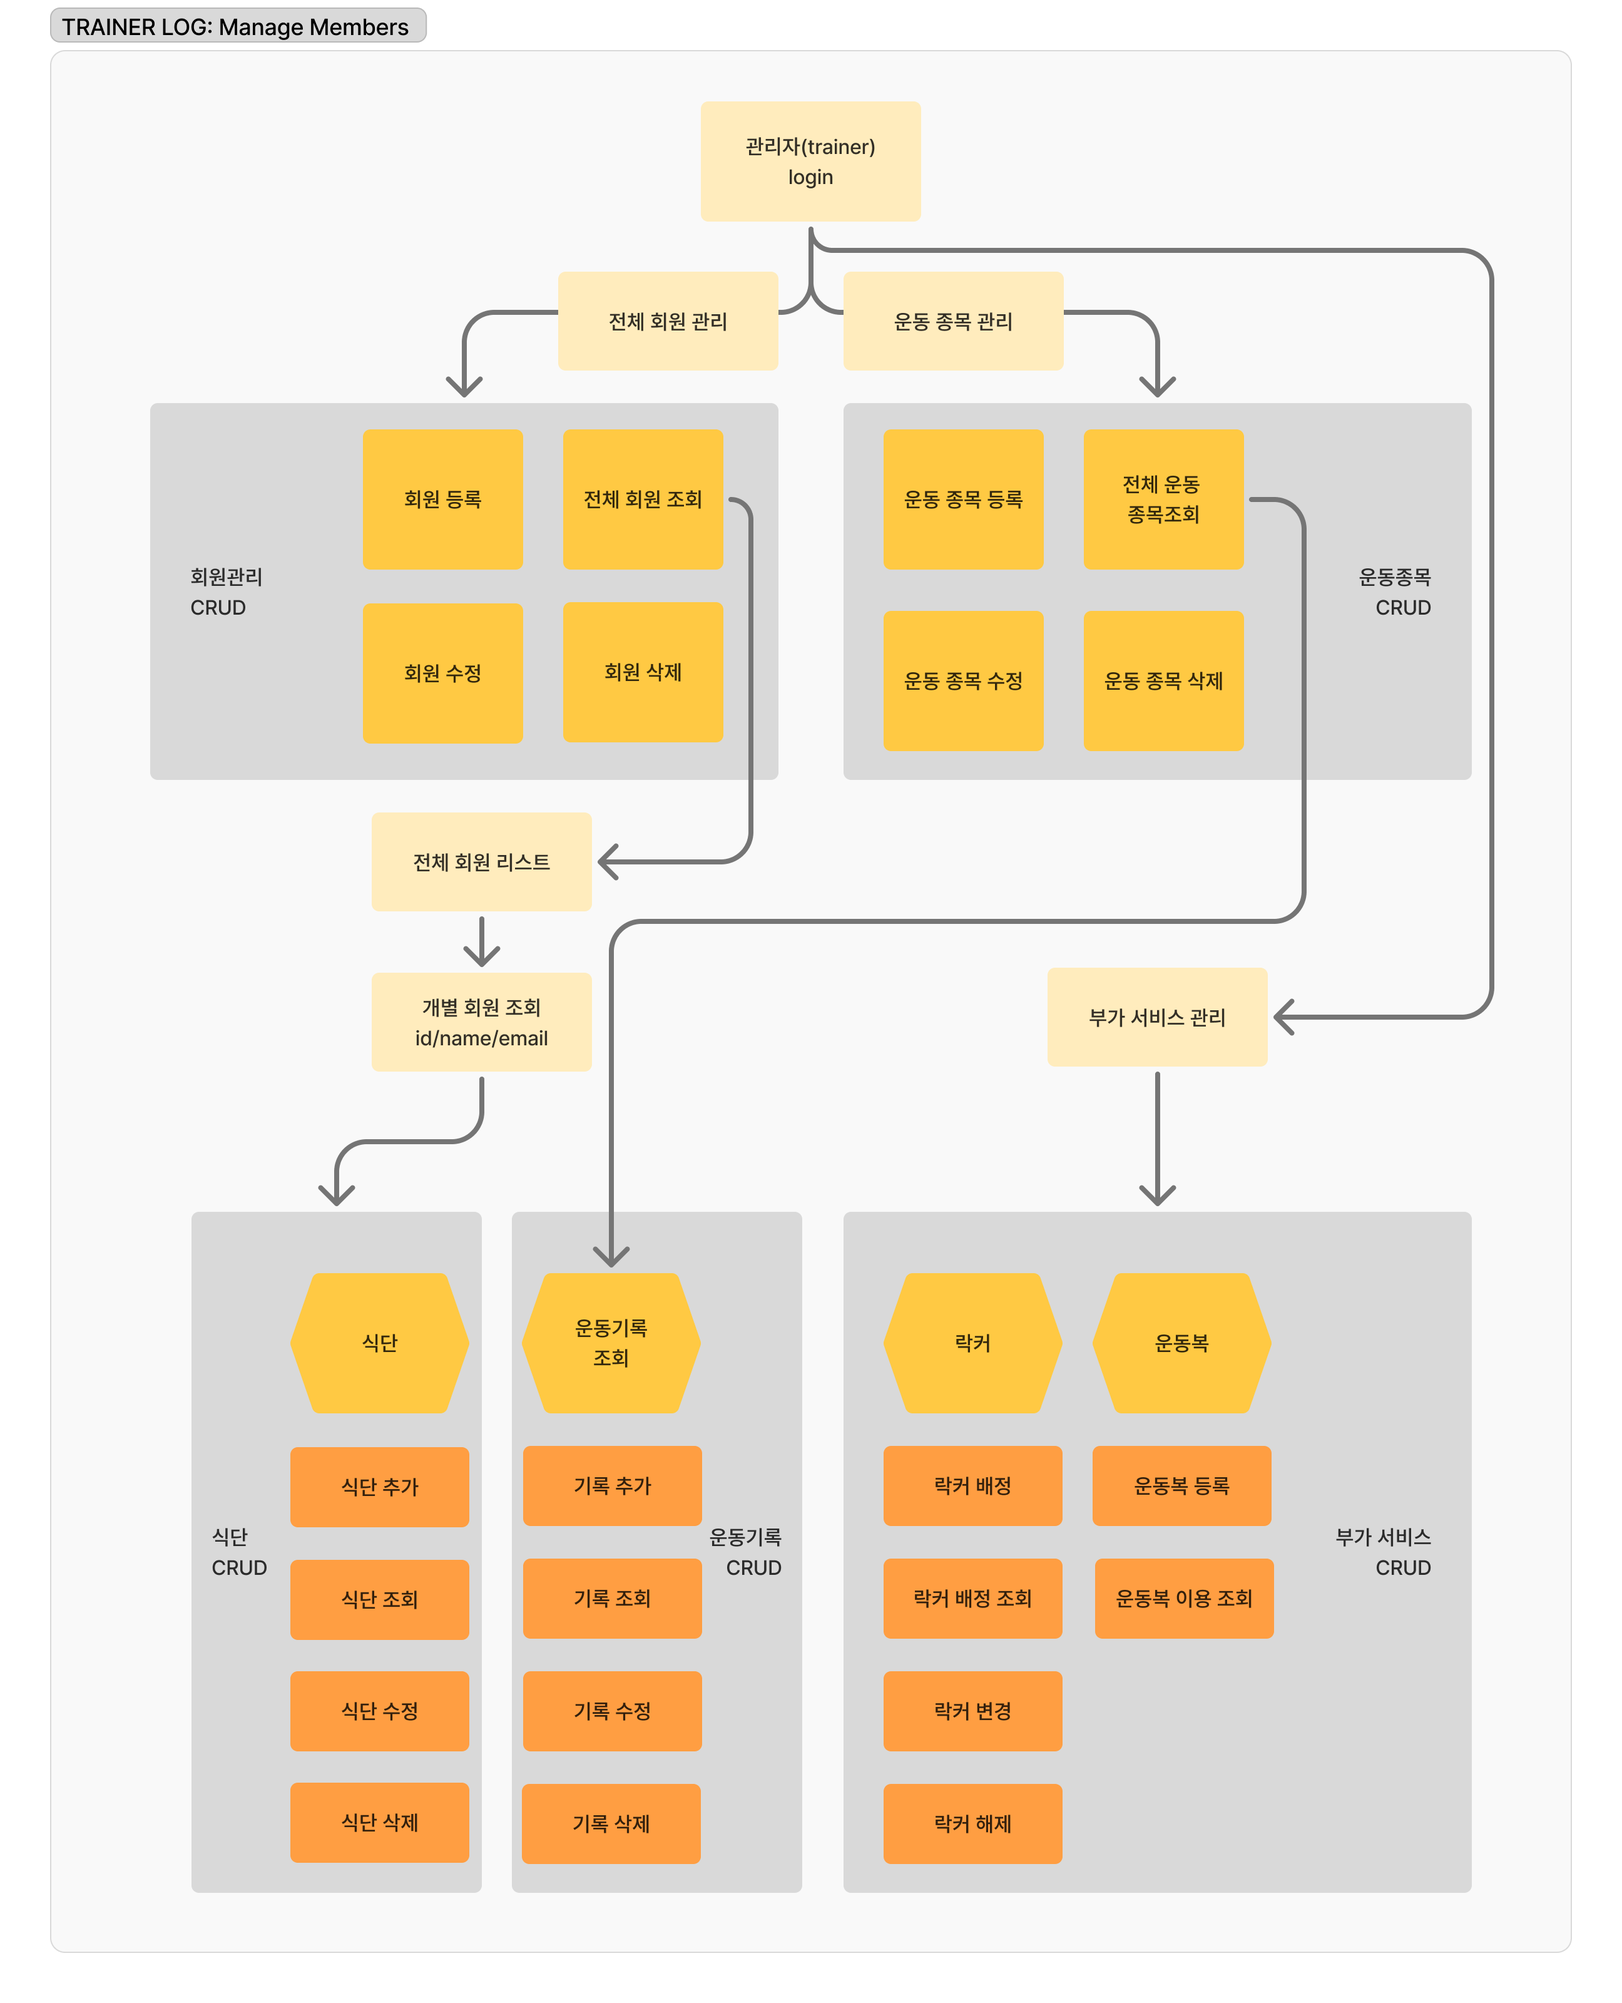
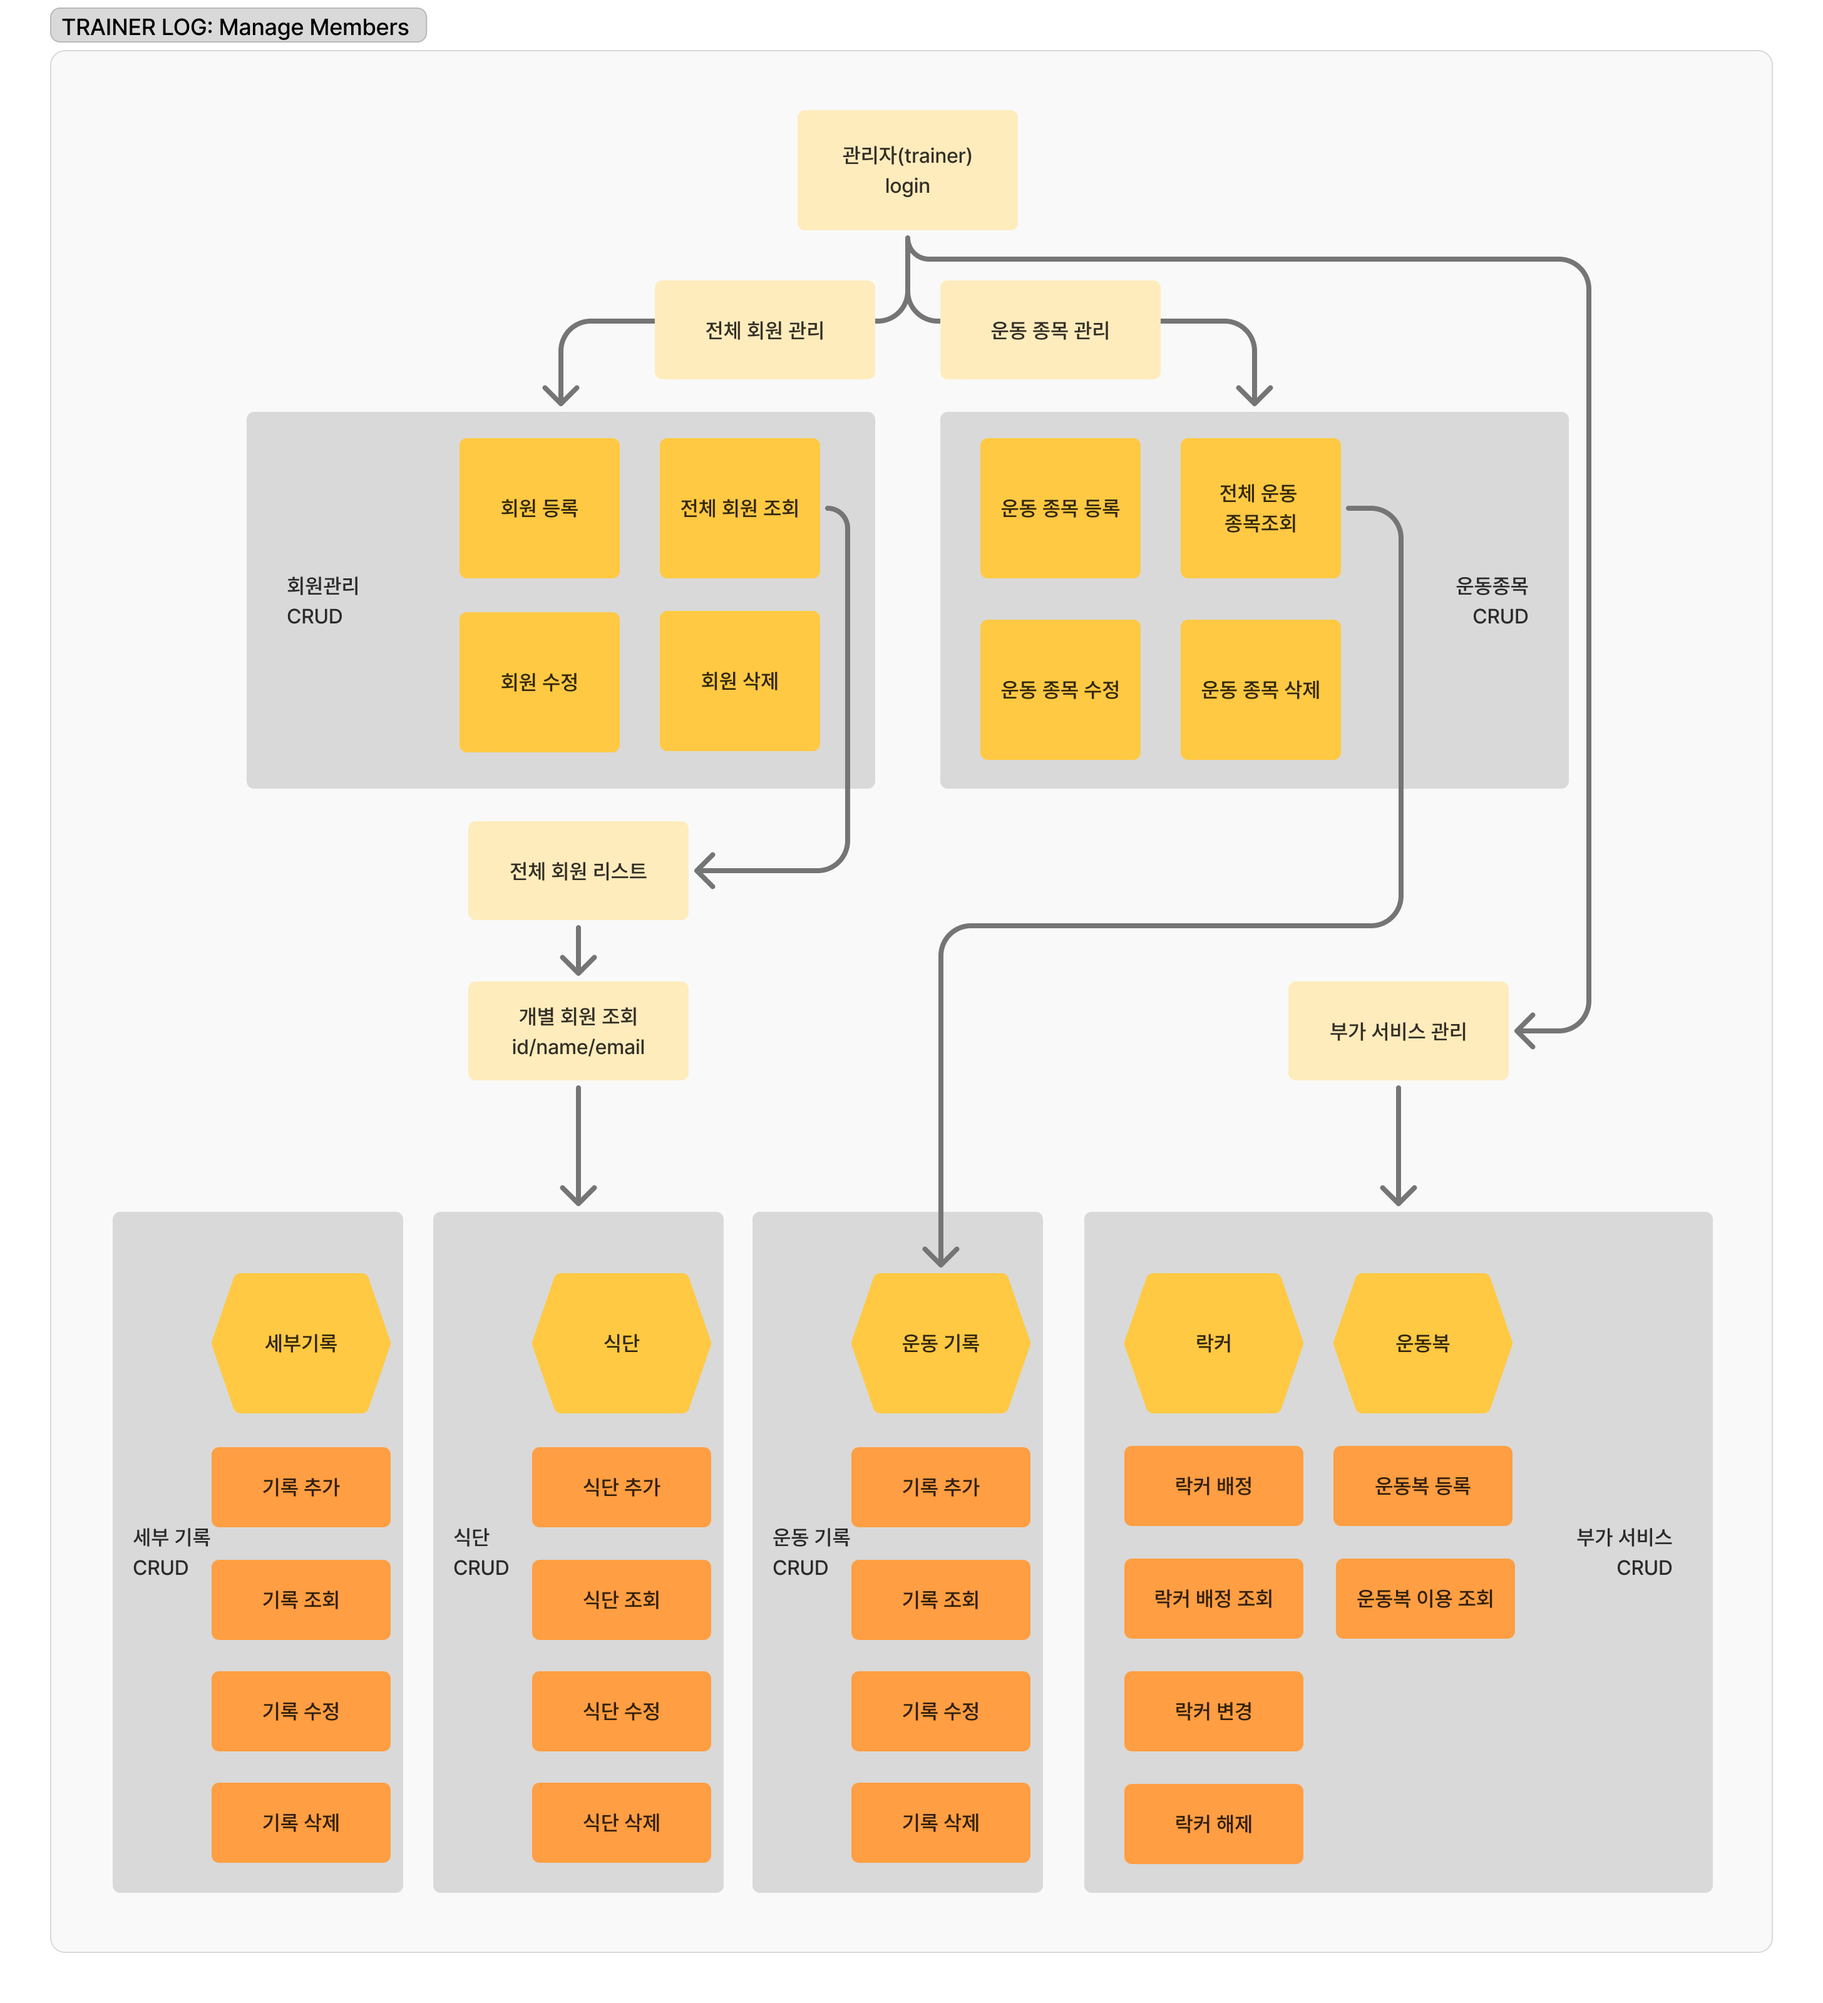
update

diff --git a/applications/machine_list.py b/applications/machine_list.py
@@ -67,7 +67,7 @@ class MachineList:
         
     def do_retrive(self):
         if self.body_list:
-            num_muscle = "======== 운동 부위 ========"
+            num_muscle = "========== 운동 부위 =========="
             line = len(num_muscle) + align(num_muscle)
             print(num_muscle)
             for index, muscle in enumerate(self.body_list.copy()):
@@ -113,6 +113,14 @@ class MachineList:
     def do_select_one(self, select_num="1"):
         if self.body_list:
             word = {"3": "수정", "4": "삭제"}[select_num]
+            num_muscle = "========== 운동 부위 =========="
+            line = len(num_muscle) + align(num_muscle)
+            print(num_muscle)
+            for index, muscle in enumerate(self.body_list.copy()):
+                print(f"{index + 1:3d}. {muscle["운동 부위"]}")
+            print("  o. 돌아가기")
+            print("  p. 프로그램 종료")
+            print("=" * line)
             select_muscle = (input(f"{word} 할 운동 부위 이름을 입력해주세요(돌아가려면 아무거나 입력): ").strip().lower())
               # 중복이 없기에 T/F
             detail_muscle = self._find_same("운동 부위", select_muscle)
@@ -154,6 +162,7 @@ class MachineList:
         print("운동 정보 수정을 시작합니다.\n")
         # 운동 부위 수정
         while True:
+            
             modify_key = input("수정할 정보를 선택해주세요?[운동 부위, 운동 종류, ...](돌아가려면 o 입력): ").strip()
             
             for muscle in self.body_list:

diff --git a/applications/details.py b/applications/details.py
@@ -315,7 +315,6 @@ class DetailsCRUD:
     
     # ---------- 회원 삭제 연동 ----------
     def remove_member_data(self, user_id):
-        
         return self._delete_data(user_id)
 
 
